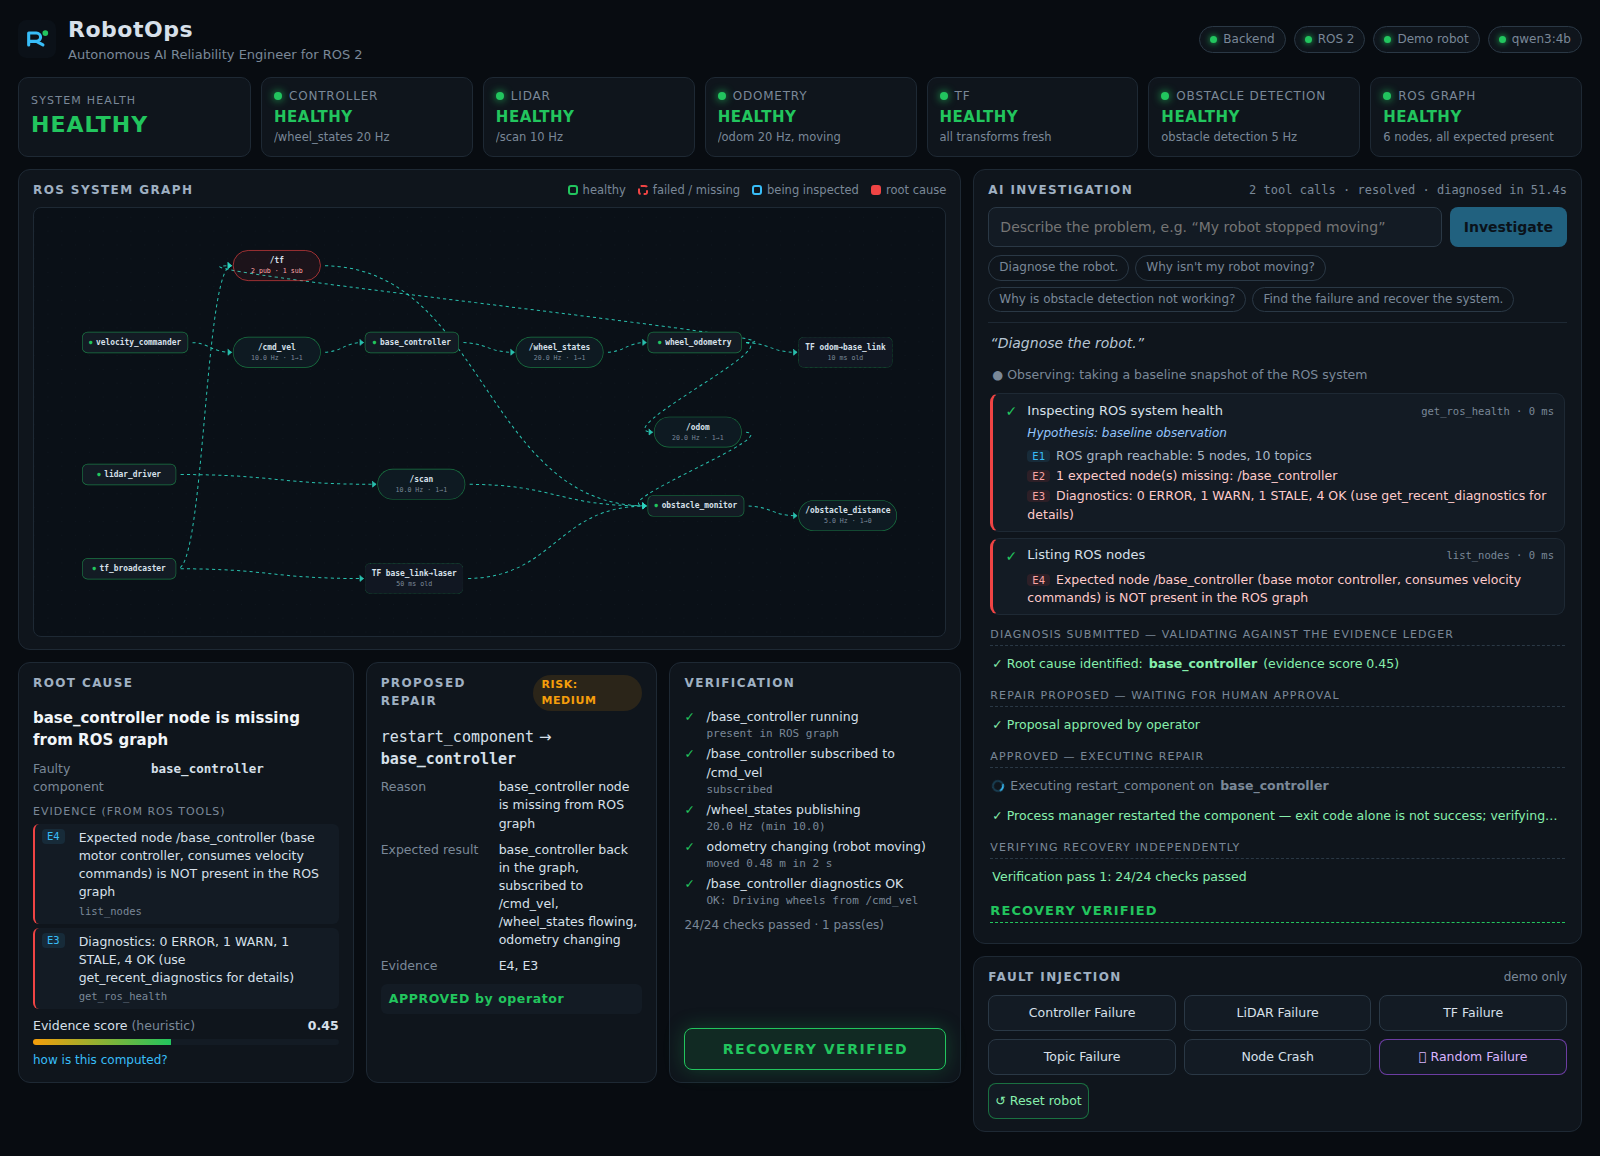
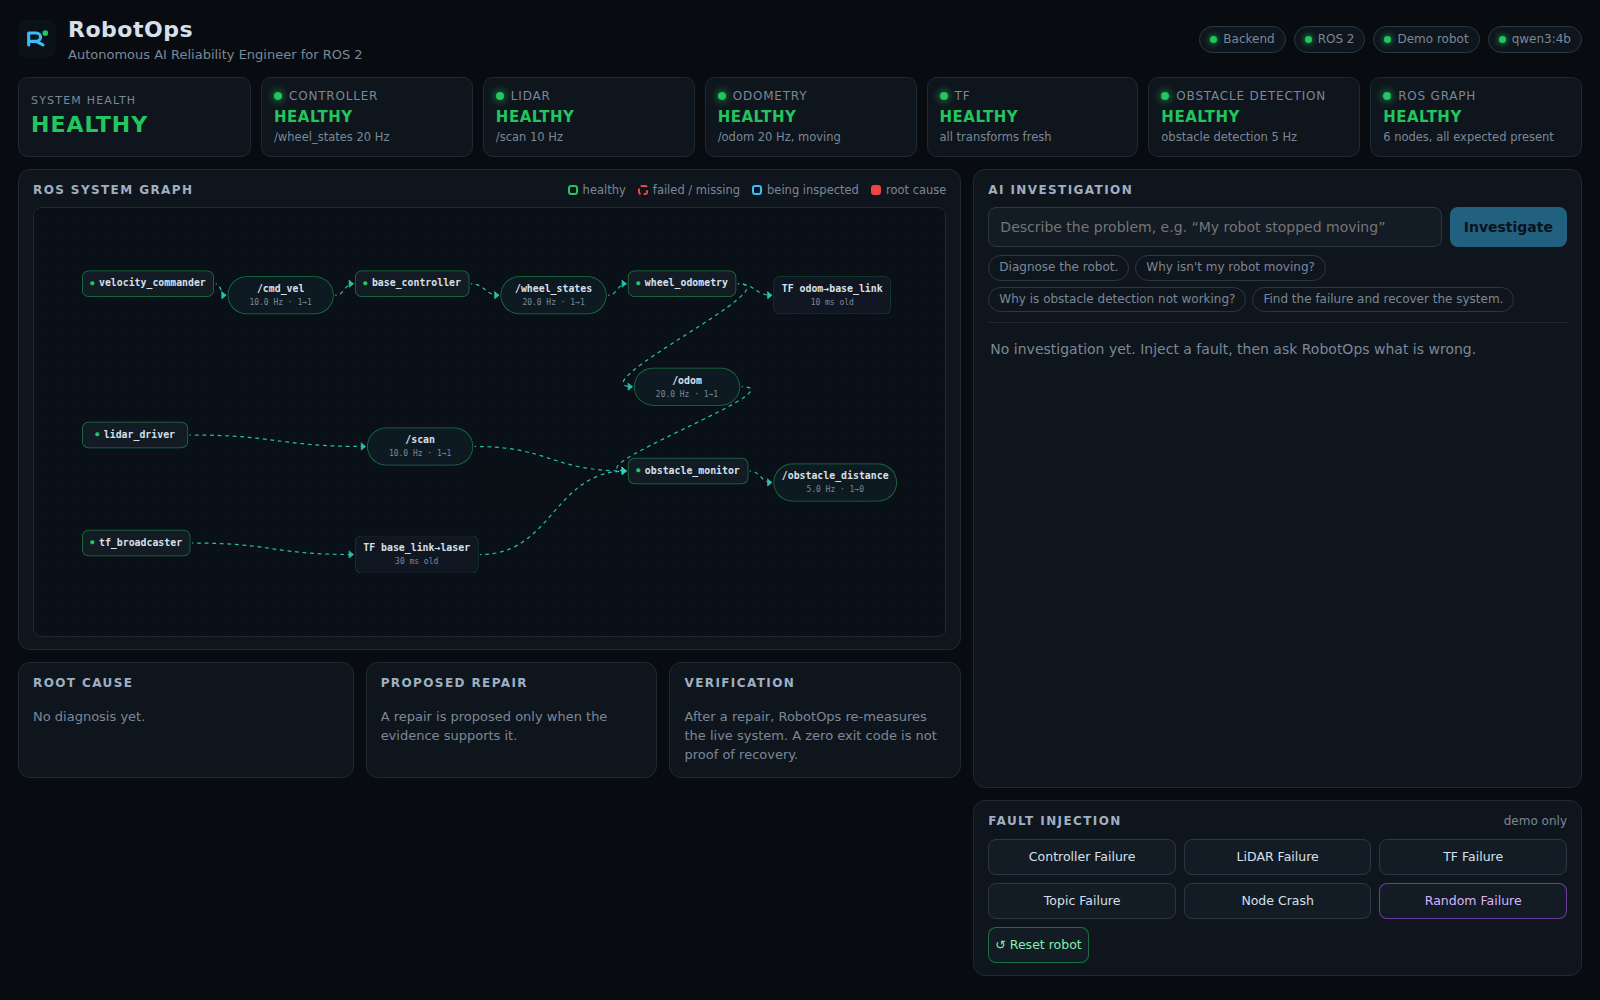
Don't let the model repeat the automatic baseline check; real screenshots of the full demo cycle

diff --git a/tests/test_agent_flow.py b/tests/test_agent_flow.py
@@ -143,6 +143,15 @@ async def test_duplicate_calls_are_not_executed_twice(env):
     assert inv.tool_calls == 2                                       # baseline + one real call
 
 
+async def test_baseline_health_check_is_not_repeated_by_the_model(env):
+    agent, _ = make_agent(env, [call("get_ros_health"), call("get_component_status"), diag(ids=("E2", "E4"))],
+                          auto_approve=True)
+    inv = Investigation("q")
+    await agent.run(inv)
+    assert inv.tool_calls == 2                                       # baseline + get_component_status only
+    assert inv.phase == Phase.RESOLVED
+
+
 async def test_unknown_tool_from_llm_is_a_failed_tool_not_an_execution(env):
     agent, _ = make_agent(env, [call("restart_component", target="base_controller"), diag(ids=("E2", "E3"))],
                           auto_approve=True)

diff --git a/backend/agent/graph.py b/backend/agent/graph.py
@@ -136,6 +136,8 @@ class Agent:
         steps = nudges = rejected = 0
         forced = False
         seen: dict[str, list[str]] = {}
+        if inv.round == 1:  # the baseline get_ros_health was already run automatically; don't spend a step repeating it
+            seen["get_ros_health" + json.dumps({}, sort_keys=True)] = [e.id for e in inv.ledger.items.values() if e.step == 1]
         llm_turns = 0
         while True:
             llm_turns += 1

diff --git a/README.md b/README.md
@@ -6,7 +6,7 @@
 > root cause, proposes a repair, waits for a human to approve it, fixes the robot, and then **independently verifies**
 > that it really recovered.
 
-![RobotOps dashboard](docs/screenshots/01_healthy.png)
+![RobotOps dashboard](docs/screenshots/03_awaiting_approval.png)
 
 ## Problem
 
@@ -116,9 +116,15 @@ Private model reasoning is never stored or displayed; the timeline shows tool ca
 
 ## Screenshots
 
-| Fault injected (LiDAR) | Finished run |
+Real captures of the running system (`scripts/screenshot.py`), one full demo cycle:
+
+| 1. Healthy baseline | 2. Fault injected (controller crash) |
 |---|---|
-| ![fault](docs/screenshots/02_fault.png) | ![done](docs/screenshots/01_healthy.png) |
+| ![healthy](docs/screenshots/01_healthy.png) | ![fault](docs/screenshots/02_fault.png) |
+
+| 3. Evidence-backed diagnosis, waiting for approval | 4. Approved → repaired → independently verified |
+|---|---|
+| ![approval](docs/screenshots/03_awaiting_approval.png) | ![recovered](docs/screenshots/04_recovered.png) |
 
 ## Demo instructions
 
